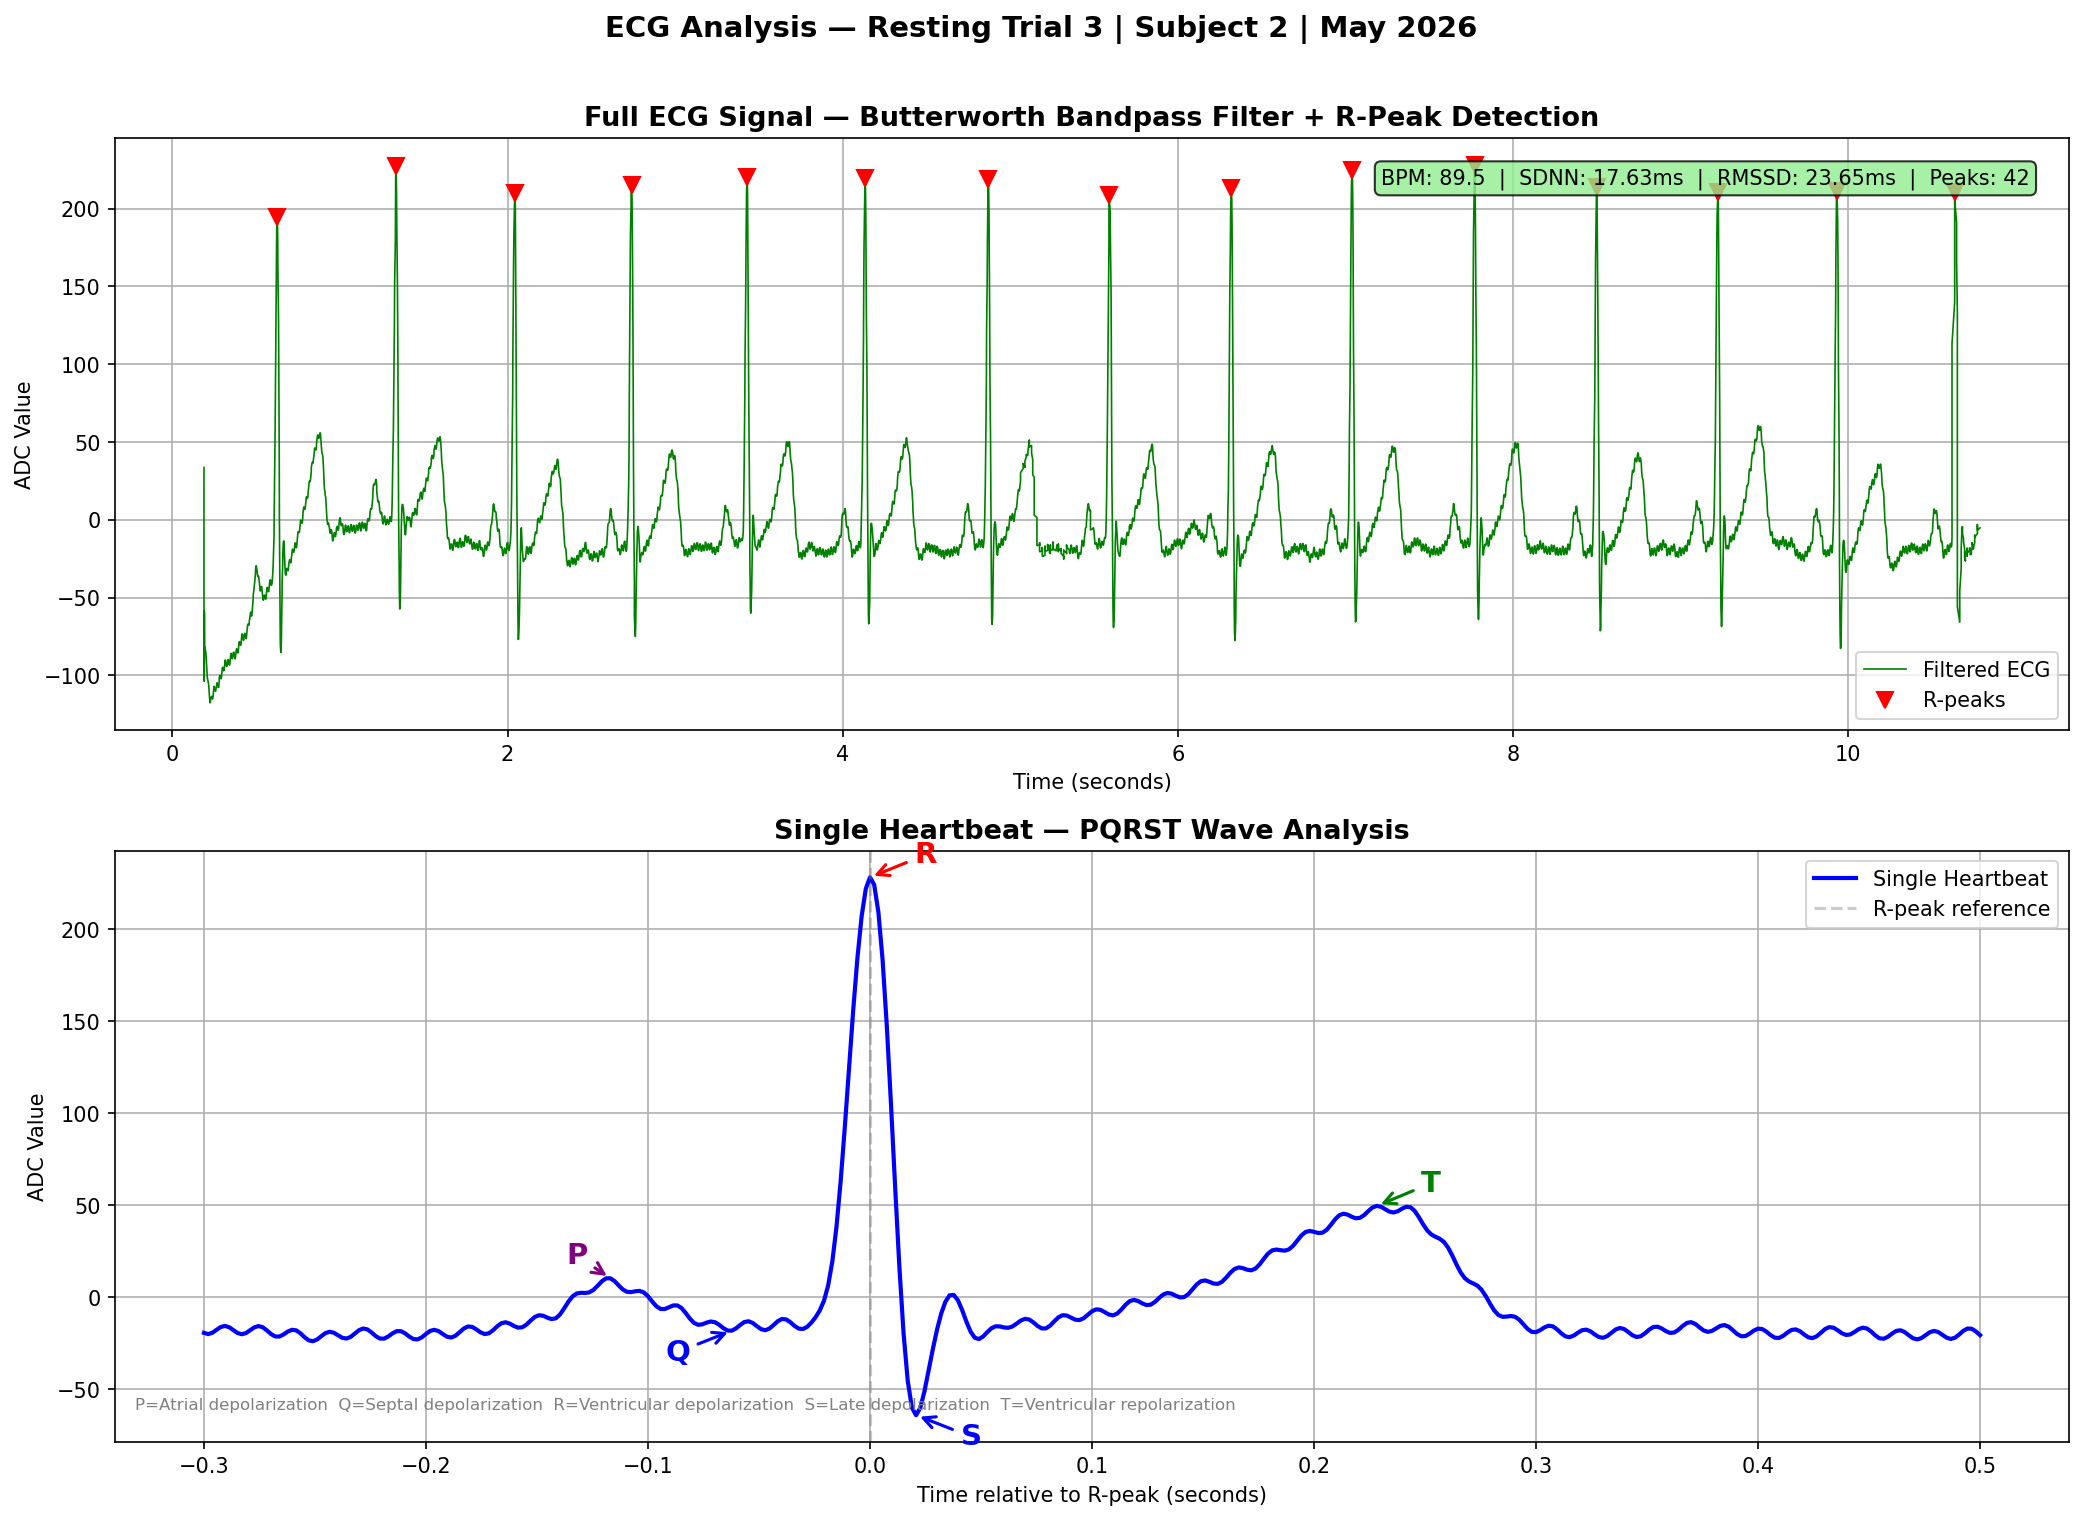
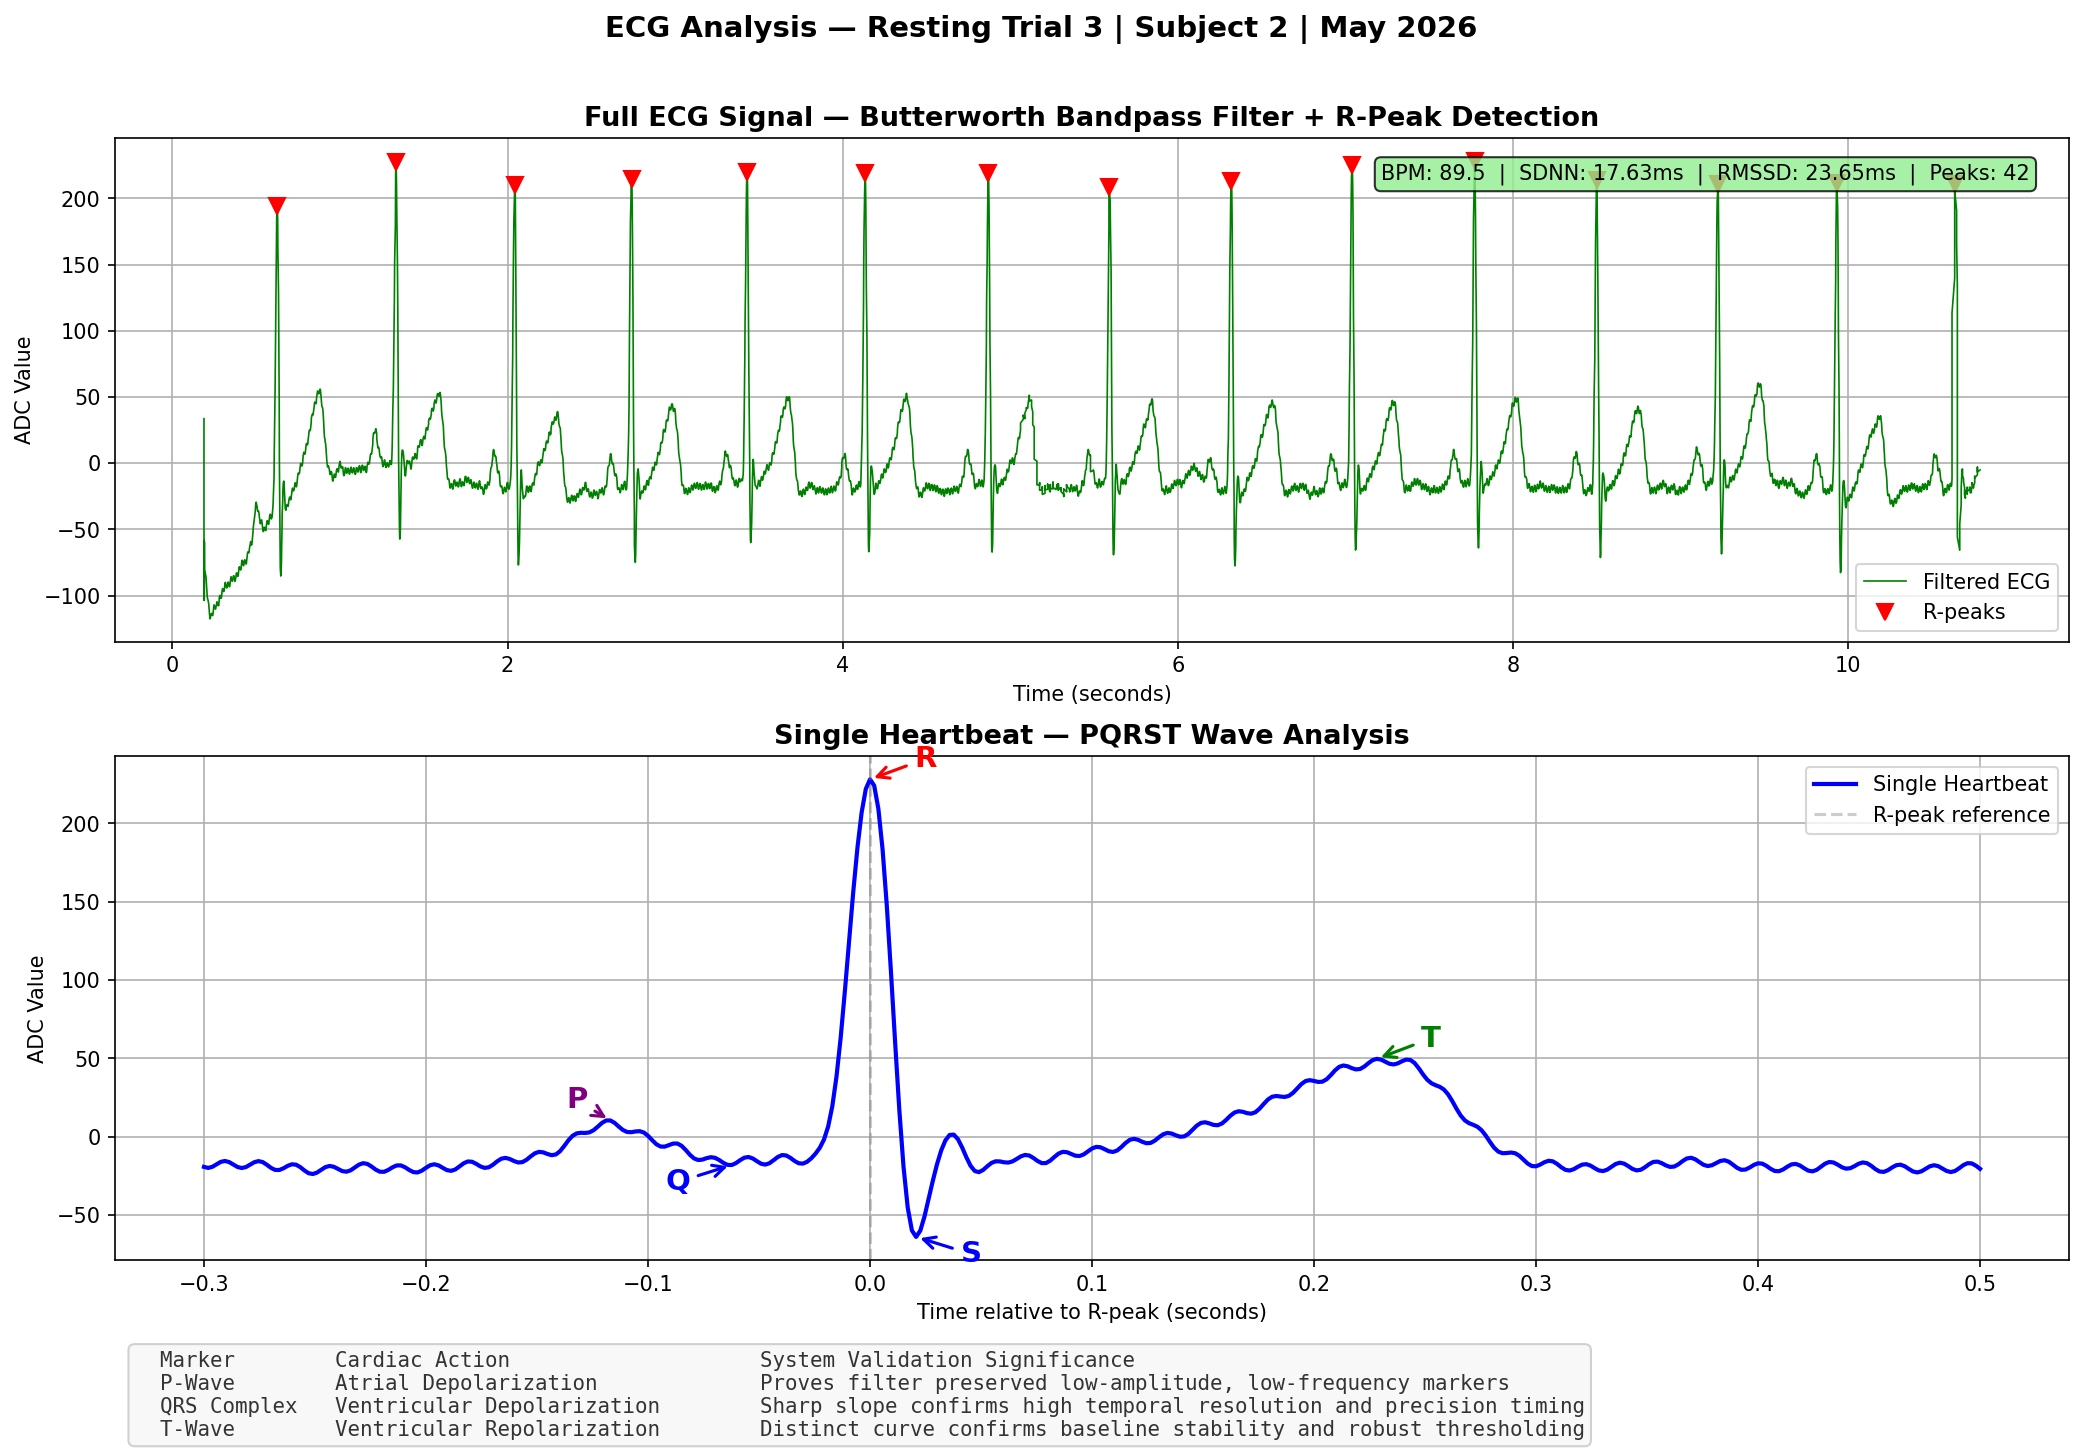
Add publication-quality PQRST plot with validation table

diff --git a/signal_processing/pqrst_analysis.py b/signal_processing/pqrst_analysis.py
@@ -153,16 +153,25 @@ def plot_pqrst(trial_num=3, fs=533):
     axes[1].grid(True)
 
     # Add wave descriptions
-    axes[1].text(0.01, 0.05,
-                 'P=Atrial depolarization  Q=Septal depolarization  '
-                 'R=Ventricular depolarization  S=Late depolarization  '
-                 'T=Ventricular repolarization',
-                 transform=axes[1].transAxes,
-                 fontsize=8, color='gray', va='bottom')
+    axes[1].text(0.01, -0.18,
+             '  Marker        Cardiac Action                    '
+             'System Validation Significance\n'
+             '  P-Wave        Atrial Depolarization             '
+             'Proves filter preserved low-amplitude, low-frequency markers\n'
+             '  QRS Complex   Ventricular Depolarization        '
+             'Sharp slope confirms high temporal resolution and precision timing\n'
+             '  T-Wave        Ventricular Repolarization        '
+             'Distinct curve confirms baseline stability and robust thresholding',
+             transform=axes[1].transAxes,
+             fontsize=10, color='#333333', va='top',
+             fontfamily='monospace',
+             bbox=dict(boxstyle='round', facecolor='#f8f8f8',
+                      edgecolor='#cccccc', alpha=0.9))
 
     plt.suptitle(f'ECG Analysis — Resting Trial {trial_num} | Subject 2 | May 2026',
                  fontsize=14, fontweight='bold', y=1.01)
     plt.tight_layout()
+    plt.subplots_adjust(bottom=0.18)
     plt.savefig(f'../results/experiment_1/pqrst_trial_{trial_num}.png',
                 dpi=150, bbox_inches='tight')
     print(f"PQRST plot saved to results/experiment_1/pqrst_trial_{trial_num}.png")